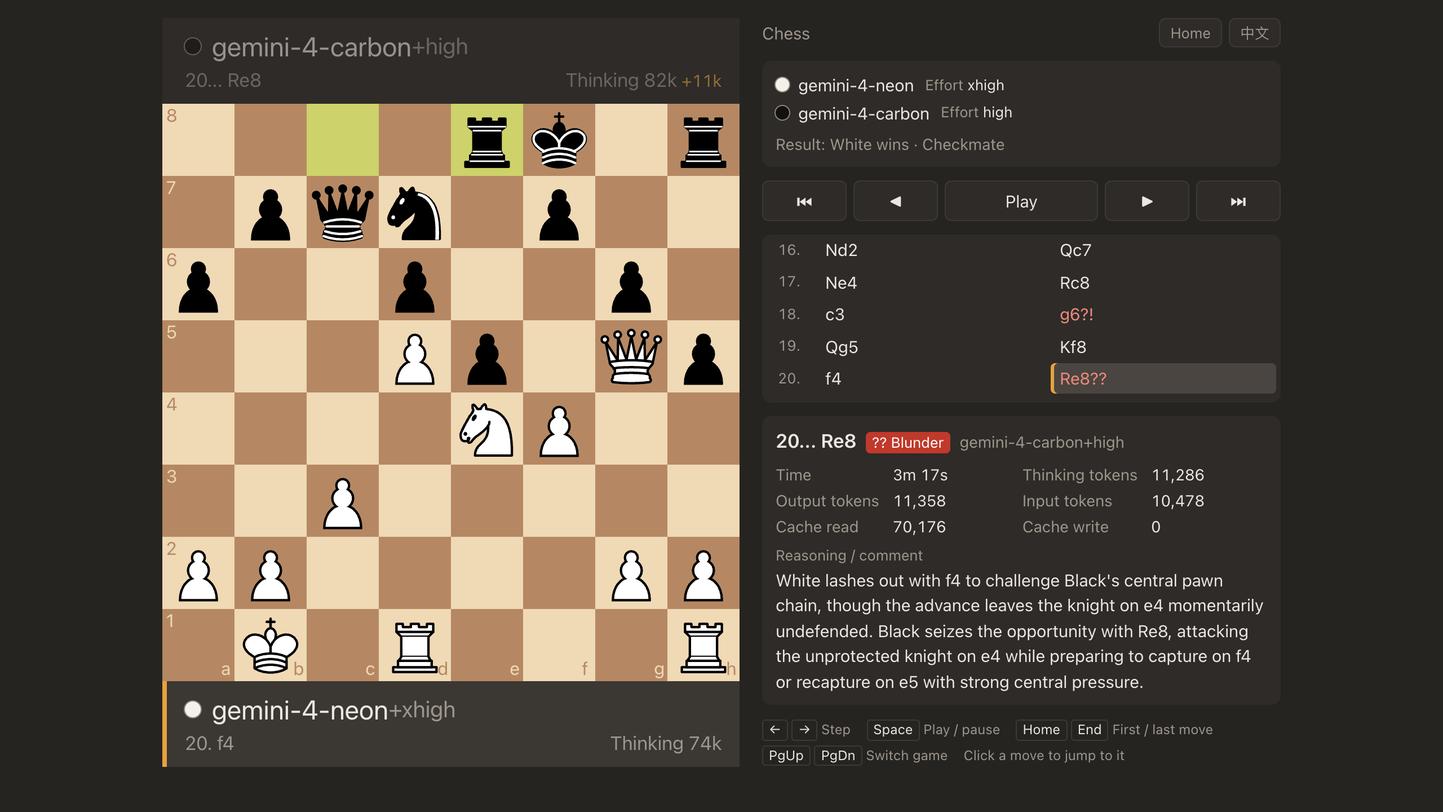
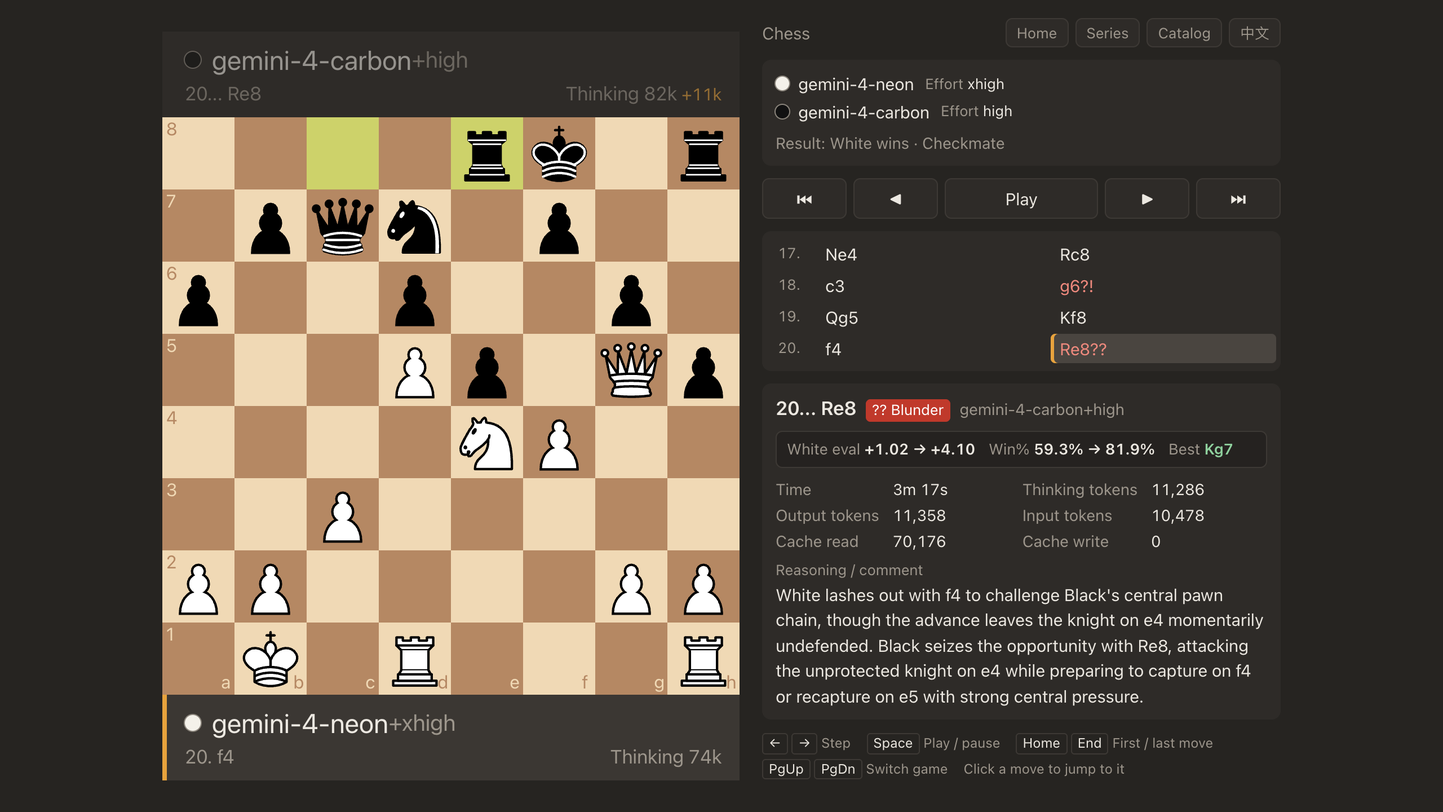
docs: add Series Board and Game Catalog links and fix Xiangqi anchor typo

diff --git a/docs/viewer.md b/docs/viewer.md
@@ -7,7 +7,7 @@
 > **状态（2026-10-02）：走子音效已做、用户试听后合回 main：录视频默认有声、网页默认静音，见「走子音效」。**
 > **不做成对外 app（2026-10-02 用户定，不立项）**：调研见 `viewer-survey/README.md` 末节。
 > **状态（2026-10-03）：加了英文界面（`lang=en`）和棋手显示名覆盖（`names=`），用于英文讲解与视频展示，见「英文界面」。默认仍是中文、画面不变。**
-> **状态（2026-11-22）：补齐 GitHub Pages 在线静态部署（`viewer/build-pages.mjs` + GitHub Actions Playwright CI/CD）、`SITE_ROOT` 子路径双通、手机端可滚动纵向堆叠版式 `.mobile`（`<900px` 保留着法与评注，不影响 `rec=1` / `layout=compact` 录屏窄版）、手动翻步防抖 `replaceState` 更新 `ply` 深链接、顶栏/首页中英切换及 `agy:` 前缀剥离。**
+> **状态（2026-11-22）：补齐 GitHub Pages 在线静态部署（`viewer/build-pages.mjs` + GitHub Actions Playwright CI/CD）与三页同级静态架构（精选阅读器 `index.html`、无引擎对阵总览榜 `series.html`、全部 192 盘可筛选目录 `catalog.html`，共享 `lib/nav.js` 上下文导航，全站固定暗色主题）；新增 `viewer/catalog-meta.json` + 零依赖 `viewer/build-catalog.mjs`（严格只扫 `git ls-files runs/`）生成入库受检的 `viewer/lib/catalog-data.json`；支持 `SITE_ROOT` 子路径双通、先手固定视角的逐着引擎评分/胜率变化与最佳着展示、`CHANNEL_WARN_RE` 通道重试告警分段弱化渲染、`match.js` `fullName()` 首词忽略大小写厂商前缀去重、手机端 `.mobile` 版式（翻步栏紧贴棋盘正下方 + 8 行整行对齐 `284px` 着法滚动框，不影响 `rec=1` / `layout=compact` 录屏窄版）、手动翻步防抖 `replaceState` 更新 `ply` 深链接及 `agy:` 前缀剥离。**
 
 ## 一句话
 
@@ -28,19 +28,21 @@
 **输入是棋谱文件。**
 - 国际象棋：标准 PGN，一个文件里可以有多盘。
 - 中国象棋：xqbase「中国象棋电脑应用规范」的 PGN（原文 `www.xqbase.com/protocol/cchess_pgn.htm`、`cchess_move.htm`）。要点：`[Game "Chinese Chess"]` 放第一个标签；双方标签是 `Red` / `Black`；`Format` 不写默认是中文记谱；黑方数字用全角「１２３」，同线第几个兵的「一二三」仍用汉字（如「一卒平５」）；同一纵线上有多个同种子时用前 / 中 / 后或一二三四五区分，两条纵线都有多个兵另有编号规则；仕、相同线不写前后，靠进退区分。逐条规则第 1 步已对照原文定下，写在 `agi_chess/xiangqi.py` 的 `pgn_move` 注释里：一线两兵前 / 后、三兵前 / 中 / 后、四五兵从前往后一至五；两条纵线各有两个以上兵时，这两条线上的兵一起编一至五，先按走棋方的纵线号从小到大（右边先）、同线从前往后，其余纵线的兵照常写（原文说明里「即先看最左边一列」与「先从右到左」和例局矛盾，以例局为准）。评注后的黑方着法照原文例子直接接着写，不补「N...」。读别人的棋谱时容错半角数字、繁体字（俥傌砲後進）、GBK 编码（解码失败回退 `gb18030`）。
-- 评注里的 `[%emt]` 显示成用时；自定义的 `[%think] [%out] [%in] [%cacheread] [%cachewrite] [%illegal] [%flagged] [%empty] [%dropped]` 显示成带中文标签的数字；不认识的命令原样列出，后面的文字当理由显示。着法后的 `?` `??` `!` 等标注照常显示。
+- 评注里的 `[%emt]` 显示成用时；自定义的 `[%think] [%out] [%in] [%cacheread] [%cachewrite] [%illegal] [%flagged] [%empty] [%dropped]` 显示成带中文标签的数字；不认识的命令原样列出，后面的文字当理由显示。对含通道内联重试 `⚠` 告警的历史评注（由 `CHANNEL_WARN_RE` 匹配提取），面板将告警原文与模型理由正文分段并弱化渲染。着法后的 `?` `??` `!` 等标注照常显示；当伴随加载了同目录 `analysis.jsonl` 时，除叠加恶手/失误/不精确徽章外，还将分析记录里的走子方视角评分与胜率统一翻转为**先手（国际象棋白方 / 中国象棋红方）固定视角**展示变化，并将走前局面下的引擎最佳着坐标转为可读记谱（国际象棋用临时 `Chess` 实例转标准 SAN，中国象棋按当前界面语言调 `zhMove` 转中文四字记谱或调 `wxfMove` 转英文 WXF 记谱）。
 - 标签里的 `WhiteEffort` / `BlackEffort`（中国象棋 `RedEffort` / `BlackEffort`，本项目自定义，见下文导出）显示为思考深度；别人的棋谱没有就不显示。
 
-**打开方式与静态打包。** 页面是纯前端静态 ES 模块（第三方库放 `viewer/vendor/`，附来源和许可文本），不能用 `file://` 直接打开，同时支持**本机静态服务**与 **GitHub Pages 在线直开**两种部署形态：
-- **本机静态服务**：在仓库根目录运行 `node viewer/serve.mjs`（默认监听 `127.0.0.1:8765`，或 `python3 -m http.server 8765 --bind 127.0.0.1`），打开 `http://127.0.0.1:8765/viewer/`，页面无需构建或 `npm ci`。
-- **GitHub Pages 在线部署**（`https://xiaohuaxi.github.io/agi-chess/`）：由 `viewer/build-pages.mjs` 生成静态站点目录（将 `viewer/` 运行时静态文件 `index.html`、`app.js`、`app.css`、`lib/`、`vendor/` 与 `.nojekyll` 拷入站点根，并递归纳入 `runs/` 下全部正式对局的 `game.pgn` 与 `analysis.jsonl`；排除 `node_modules/`、`test/`、`serve.mjs`、`record.mjs`、`shot.mjs` 等开发/录制文件），经 GitHub Actions 跑完 Playwright 浏览器回归后自动部署。
-- **`SITE_ROOT` 子路径双通**：前端由 `new URL('.', import.meta.url)` 自动推导 `SITE_ROOT`——当页面跑在本机 `/viewer/` 子目录下时退回上一级仓库根，当跑在 GitHub Pages（如 `/agi-chess/` 站点根）时直接使用该部署根；`files=` 中的相对路径 `runs/<tag>` 与带前导斜杠的 `/runs/<tag>` 均按 `SITE_ROOT` 统一解析（支持目录简写自动补 `/game.pgn`，并自动尝试伴随加载同目录 `analysis.jsonl` 校验走子坐标与走前局面后叠加恶手/失误/不精确标注）。空白首页内置近期 Neon / Carbon / Astra 6.2 与经典 Opus Max 代表局入口、中英切换及本地 `.pgn` 拖放解析（拖入文件仅在浏览器本地读取，不上传）。
+**打开方式、三页架构与静态索引管线。** 页面是纯前端静态 ES 模块（第三方库放 `viewer/vendor/`，附来源和许可文本），全站固定采用暗色护眼主题，不能用 `file://` 直接打开，同时支持**本机静态服务**与 **GitHub Pages 在线直开**两种部署形态：
+- **三页同级静态架构与共享导航（`lib/nav.js`）**：站点由同级的精选阅读器 `index.html`、分棋种无引擎对阵总览榜 `series.html`（支持 `?variant=xiangqi` 分栏，按棋种与可比实验条件展示无引擎番棋总览、循环赛摘要、引擎标定锚点与名场面直达）及全部 192 盘可筛选目录 `catalog.html`（支持 `?batch=<id>` 及棋种/类别/模型胶囊/关键词组合筛选）组成。三页共用 `viewer/lib/nav.js` 维护顶栏导航与中英切换参数，并结合 `sessionStorage` 与 `history.state` 保存来源页 URL 与筛选状态，使从总览榜或目录页点进阅读器看谱后可一键原位返回。
+- **静态目录索引构建管线（`build-catalog.mjs`）**：由维护批次与系列元数据的 `viewer/catalog-meta.json` 配合零第三方依赖脚本 `viewer/build-catalog.mjs`（严格只扫描 `git ls-files runs/` 输出的已跟踪文件，绝不混入本机未入库的新跑目录或临时文件），离线汇总生成入库受检的 `viewer/lib/catalog-data.json`（测试套件同步校验其与仓库已入库 `runs/` 完全一致）。
+- **本机静态服务**：在仓库根目录运行 `node viewer/serve.mjs`（默认监听 `127.0.0.1:8765`，或 `python3 -m http.server 8765 --bind 127.0.0.1`），打开 `http://127.0.0.1:8765/viewer/`（以及同目录 `series.html`、`catalog.html`），页面无需构建或 `npm ci`。
+- **GitHub Pages 在线部署**（`https://xiaohuaxi.github.io/agi-chess/`）：由 `viewer/build-pages.mjs` 生成静态站点目录（将 `viewer/` 运行时静态文件 `index.html`、`series.html`、`catalog.html`、各自 JS/CSS、`lib/` 含 `catalog-data.json`、`vendor/` 与 `.nojekyll` 拷入站点根，并递归纳入 `runs/` 下全部正式对局的 `game.pgn` 与 `analysis.jsonl`；排除 `node_modules/`、`test/`、`serve.mjs`、`record.mjs`、`shot.mjs`、`build-*.mjs` 等开发/构建脚本），经 GitHub Actions 跑完 Playwright 浏览器回归后自动部署。
+- **`VIEWER_DIR` 与 `SITE_ROOT` 两级路径分离**：共享模块 `viewer/lib/nav.js` 由 `new URL('..', import.meta.url)` 定位页面目录 `VIEWER_DIR`（本机 `/viewer/`，线上 `/agi-chess/`），再据此推导数据根 `SITE_ROOT`——当 `VIEWER_DIR` 跑在本机 `/viewer/` 子目录下时退回上一级仓库根，当跑在 GitHub Pages（如 `/agi-chess/` 站点根）时直接复用 `VIEWER_DIR`；`files=` 中的相对路径 `runs/<tag>` 与带前导斜杠的 `/runs/<tag>` 均按 `SITE_ROOT` 统一解析（支持目录简写自动补 `/game.pgn`，并自动尝试伴随加载同目录 `analysis.jsonl` 校验走子坐标与走前局面后叠加引擎评分、最佳着与恶手标注）。空白首页内置近期 Neon / Carbon / Astra 6.2 与经典 Opus Max 代表局入口、中英切换及本地 `.pgn` 拖放解析（拖入文件仅在浏览器本地读取，不上传）。
 
 **版式（三态分工）。**
 - **宽版 `.wide`**（窗口宽 `>= 900px` 或强制 `layout=wide`，且非 `rec=1`）：左边棋盘，右边着法列表和当前这步的评注、理由、用时、token、非法重选次数。能暂停、前后单步、点着法跳到任意一步，有键盘快捷键，顶栏支持中英切换。
   - 已做（2026-09-30）：左边照搬窄版的棋手条 + 棋盘 + 棋手条（字号配色不变），棋盘边长随窗口高度（`100vh` 减上下留白、两条棋手条、顶部细条）；右边一栏从上到下是棋种（多盘时一个下拉框换盘）、双方全称与「思考深度」、结果，播放按钮（首 / 上一步 / 播放暂停 / 下一步 / 尾），着法列表（每回合一行，当前这步高亮，`?` `??` `?!` 标红、`!` `!!` `!?` 标绿），这步的详情（记谱、标注及其中文说法、将军、谁走的；用时、思考 / 输出 / 输入 token、缓存读写、非法重选、被拦截、空回复，各带中文标签，非零的异常次数用强调色；理由文字；不认识的命令原样列出），最底下一行快捷键提示。配色沿用窄版的变量，宽版自己的取值在 `app.css` 末尾「宽版」一节。
   - 快捷键与深链接同步：← → 单步（本盘到底再按 → 进下一盘，开头按 ← 回上一盘最后一步），空格 播放 / 暂停，Home / End 本盘首尾，PgUp / PgDn 上一盘 / 下一盘；点着法跳到那步。手动跳步先停下自动播放，再按播放从跳到的那一格往下播；在非 `rec=1`、非自动播放状态下，手动翻步或跳步会经防抖调用 `history.replaceState` 同步更新地址栏 `ply`（及多盘时的 `game`），方便直接复制当前 URL 分享指定半回合局面而不污染浏览器后退栈。跳到最后一步时直接带终局横幅。
-- **移动堆叠版 `.mobile`**（窗口宽 `< 900px` 且未传 `rec=1`、未强制 `layout=compact`/`wide`）：面向手机与窄窗读谱的可纵向滚动上下堆叠版式——上方为棋手条 + 棋盘 + 棋手条与播放控制，下方完整保留着法列表与当步评注详情（不再像早期实现那样在 `<900px` 直接隐藏右栏）。
+- **移动堆叠版 `.mobile`**（窗口宽 `< 900px` 且未传 `rec=1`、未强制 `layout=compact`/`wide`）：面向手机与窄窗读谱的可纵向滚动上下堆叠版式——上方为棋手条 + 棋盘 + 棋手条，**翻步控制栏紧贴棋盘正下方**，其下依次为当步棋评详情与 **8 行整行对齐（`284px` `border-box`）的着法滚动框**（既不像早期实现那样在 `<900px` 隐藏右栏，也不把百余回合列表全展开撑长页面）。
 - **录屏窄版 `.compact`**（`rec=1` 或显式传 `layout=compact`）：固定 `540×720` 设计结构，右侧信息栏整块不渲染，只剩页头、棋盘、页脚（棋手条），专供脚本逐帧录屏与无评注紧凑展示；细节见下文「录屏画面」。
 - 默认切换规则：`rec=1` 恒为 `.compact`（录 16:9 时视口宽 960，录制不靠窗口宽度自动判断）；否则显式 `layout=compact` / `layout=wide` 优先；未指定 `layout` 时按窗口宽度响应式切换（`>= 900px` 为 `.wide`，`< 900px` 为 `.mobile`）。
 - 三种版式都有：上一步高亮、被将军提示、终局结果和结束原因、可选的标题画面（默认不加，参数 `title=1` 开）。两种棋各照自己的主流软件画（见「棋盘」），不求统一。
@@ -194,7 +196,7 @@
   - **第五轮（2026-09-30）象棋的竖向分配**：规则两种棋一致（用户定）：**棋盘区高度固定，连播与否不变；连播多出的顶部细条从两条棋手条扣**（国际象棋 544，棋手条单盘 88 / 连播 76）。象棋取值（用户 2026-09-30 定稿）：棋盘区 572（`app.css` 的 `--xq-board-h`，页面在 `#stage` 上挂 `xq` 类时生效），棋手条连播 62（压到不局促的最矮）、单盘 74；字号不变，只压行高（30 / 24、两行间距 1，`--xq-row1-lh` 等，只作用于象棋的棋手条）。加总：单盘 74 + 572 + 74 = 720，连播 24 + 62 + 572 + 62 = 720。连播时字的墨迹离条上沿约 8、下沿 6–7.5，两行之间 5–8.5（带「将军」标签那条最紧）。棋盘不追满宽，压到不局促为止，左右留白可以接受（用户确认）。象棋棋盘宽：第三轮 445 → 第四轮 475 → 第五轮 482（两边各 29）。
 - **字号**：视频在手机上按屏宽显示，页面 1 像素约等于手机上 0.72 个点：名字 24 → 约 17 点，比分 28 → 约 20 点，第二行 16–18 → 约 12–13 点，都不用很大就看得清。
 - **底部有东西不怕被挡**：历史本机测试中，3:4 在小红书上按屏宽完整显示、上下是黑边，作者名、标题等浮层落在黑边里，不压画面（当时9:16会压住底部约12%；平台版本可能影响效果，见[历史录屏经验](viewer-survey/post-studio-recording.md)）。
-- **大小写与前缀剥离**：模型简称和思考深度一律小写（`opus+xhigh`，用户已同意）。简称剥离后端与路由前缀——如 `claude:opus` → `opus`，`agy:claude-opus-5-5`、`agy:gemini-4-neon` 等带 `agy:` 前缀的棋手名同样剥去 `agy:` 提取真实模型名（不把 `agy` 当厂商，也不额外补固定厂商前缀）；不是模型的棋手（引擎、人）照原名显示。观众可能不知道 astra 是哪家，放标题画面交代（如「Claude opus 对 GPT astra」）。
+- **大小写与前缀剥离**：模型简称和思考深度一律小写（`opus+xhigh`，用户已同意）。简称剥离后端与路由前缀——如 `claude:opus` → `opus`，`agy:claude-opus-5-5`、`agy:gemini-4-neon` 等带 `agy:` 前缀的棋手名同样剥去 `agy:` 提取真实模型名（不把 `agy` 当厂商，也不额外补固定厂商前缀）；不是模型的棋手（引擎、人）照原名显示。观众可能不知道 astra 是哪家，在标题画面与右栏全称 `lib/match.js` 的 `fullName()` 中补厂商前缀（如「Claude opus 对 GPT astra」），并对首词做忽略大小写去重——当模型标识本身已以厂商名开头时（如 `gpt-6.2-astra`、`claude-opus-5-5`、`gemini-4-neon`），不再重复拼出 `GPT gpt-6.2-astra`，保留紧凑的技术标识体系。
 - **标题画面**（可选）：第几局（多盘时）、双方全称与思考深度，停 `titlehold` 秒（默认 3），做法见「播放」。赛制棋谱里没有，先不写。
 - 颜色、间距、字重这类审美值做出来以后截图给用户看，满意再提交，不靠文字定。
 - **实施时逐项确认细节**（用户要求）：每种文字的字号、字重、行高，每行实际占多高，各块的内外边距，加起来是否正好等于 720；最长的名字（如 `deepseek-v4-pro+xhigh`）、最长的记谱、五位数的 token 放进去会不会挤；在打样截图上逐项量一遍，写进页面样式的注释里。

diff --git a/README.md b/README.md
@@ -6,9 +6,9 @@
 
 This project puts untuned general-purpose models at the board like human players, with no engines, legal-move lists, or tactical hints, to measure their real strength in International Chess and Xiangqi, diagnose why they blunder, and test how reasoning effort, board representation, and thought carryover affect their play. The repository includes the match and quiz runner, 192 official model games, 9 judged quiz batches, rating calibration scripts, research reports, and an interactive game viewer.
 
-> **Interactive Game Viewer (GitHub Pages): [Open Live in Your Browser (`xiaohuaxi.github.io/agi-chess`)](https://xiaohuaxi.github.io/agi-chess/?lang=en)**
+> **Interactive Game Viewer (GitHub Pages):** **[Featured Viewer](https://xiaohuaxi.github.io/agi-chess/?lang=en)** · **[No-Engine Series Board](https://xiaohuaxi.github.io/agi-chess/series.html?lang=en)** · **[All 192 Games Catalog](https://xiaohuaxi.github.io/agi-chess/catalog.html?lang=en)**
 >
-> Zero install, no API keys, and no local server needed: open the **[Live Web Viewer](https://xiaohuaxi.github.io/agi-chess/?lang=en)** on desktop or mobile to step through built-in featured games (from recent Gemini 4 Neon, Carbon, and GPT-6.2 Astra clashes to classic Claude Opus Max matches), inspect per-move model rationales alongside Stockfish / Fairy-Stockfish blunder badges, or open **any of the 192 official games** directly via `?files=runs/<tag>&lang=en` (or drag in your own `.pgn` files). For offline browsing, local newly played runs, or MP4 video recording, run `node viewer/serve.mjs` locally (see below and the [Viewer & Video Guide](docs/viewer-guide.en.md)).
+> Zero install, no API keys, and no local server needed: open the **[Live Web Viewer](https://xiaohuaxi.github.io/agi-chess/?lang=en)** on desktop or mobile to step through built-in featured games (from recent Gemini 4 Neon, Carbon, and GPT-6.2 Astra clashes to classic Claude Opus Max matches), browse head-to-head series summaries and engine calibration anchors on the **[No-Engine Series Board](https://xiaohuaxi.github.io/agi-chess/series.html?lang=en)**, or filter and open **any of the 192 official games** in the **[All 192 Games Catalog](https://xiaohuaxi.github.io/agi-chess/catalog.html?lang=en)** (or via `?files=runs/<tag>&lang=en`, or by dragging in your own `.pgn` files) to inspect per-move model rationales alongside Stockfish / Fairy-Stockfish evaluations, best moves, and blunder badges. For offline browsing, local newly played runs, or MP4 video recording, run `node viewer/serve.mjs` locally (see below and the [Viewer & Video Guide](docs/viewer-guide.en.md)).
 
 [![Live Interactive Viewer: Gemini 4 Neon xhigh vs. Carbon high, Game 1 at ply 40 (20...Re8??)](docs/assets/viewer-hero.png)](https://xiaohuaxi.github.io/agi-chess/?files=runs/neon-xhigh-vs-carbon-high-20261119&ply=40&lang=en)
 
@@ -34,11 +34,11 @@ Step 1 runs directly in your browser without cloning the repository; all CLI com
 1. **Open Featured Official Games & Blunder Reviews Online (No Clone Needed)**:
 
    Click any live link below (passing a run directory automatically overlays engine blunder badges from its companion `analysis.jsonl`):
-   - [Live Viewer Home (with built-in featured games & Chinese/English toggle)](https://xiaohuaxi.github.io/agi-chess/?lang=en)
+   - **[Live Viewer Home (featured games & Chinese/English toggle)](https://xiaohuaxi.github.io/agi-chess/?lang=en)** · **[No-Engine Series Board (`series.html`)](https://xiaohuaxi.github.io/agi-chess/series.html?lang=en)** · **[All 192 Games Catalog (`catalog.html`)](https://xiaohuaxi.github.io/agi-chess/catalog.html?lang=en)**
    - [Chess: Gemini 4 Neon `xhigh` vs. Carbon `high` (Game 1, `36.Qd8#`, Neon 10.7 ACPL / 0 blunders)](https://xiaohuaxi.github.io/agi-chess/?files=runs/neon-xhigh-vs-carbon-high-20261119&lang=en)
    - [Chess: GPT-6.2 Astra `max` vs. Gemini 4 Neon `xhigh` (Game 4, `59.Qhd5#`, Astra 11.7 ACPL / 0 blunders)](https://xiaohuaxi.github.io/agi-chess/?files=runs/neon-xhigh-vs-astra-max-20261119-4&lang=en)
    - [Chess: Gemini 4 Carbon `high` vs. Opus 5.5 `high` (Game 1, `69.Qg7#`, Carbon 7.0 ACPL / 0 blunders)](https://xiaohuaxi.github.io/agi-chess/?files=runs/carbon-vs-agy-opus-high-20261114&lang=en)
-   - [Xiangqi: Opus 5.5 `high` vs. Gemini 4 Carbon `high` (Game 3, `5.R9=8??` screened-Cannon blunder, Carbon 16.0 ACPL / 0 blunders)](https://xiaohuaxi.github.io/agi-chess/?files=runs/carbon-vs-agy-opus-high-xq-20261114-3&lang=en)
+   - [Xiangqi: Opus 5.5 `high` vs. Gemini 4 Carbon `high` (Game 3, `5.R9.8??` screened-Cannon blunder, Carbon 16.0 ACPL / 0 blunders)](https://xiaohuaxi.github.io/agi-chess/?files=runs/carbon-vs-agy-opus-high-xq-20261114-3&lang=en)
    - [Chess Peak Match (Opus Max vs. GPT-6 Astra Max, Game 1)](https://xiaohuaxi.github.io/agi-chess/?files=runs/g7-c-opus-astra-1&lang=en)
    - [Xiangqi Peak Match (Opus Max vs. GPT-6 Astra Max, Game 1)](https://xiaohuaxi.github.io/agi-chess/?files=runs/g7-x-opus-astra-1&lang=en)
    - [Chess: Argon High vs. Opus High (Game 1)](https://xiaohuaxi.github.io/agi-chess/?files=runs/argon-vs-agy-opus-high-20261019&lang=en)
@@ -103,7 +103,7 @@ Python 3.13 is recommended. If you have several Python versions installed, use `
 
 **Summary of Core Quantitative Findings** (see [Research Index](docs/research.en.md) and [Experiment History (zh-CN)](docs/history.md) for full details):
 
-- **Calibrated Playing Strength (Opus Max across 67 Engine Calibration Games):** In International Chess (30 games), under engine adjudication at the 200-ply cap (≥300 cp lead wins), Opus Max fits at **+189 scale points above Maia-1900** (95% CI: 66–313), corresponding to **~1800 Lichess Blitz / ~1920 Lichess Rapid** (or +281 / ~1910 Blitz / ~2020 Rapid under the original cap-is-draw rule); in Xiangqi (37 games), it fits at **+121 Elo above Fairy-Stockfish `nodes=100`** (95% CI: +1 to +236), comparable to or slightly above `nodes=300` (+82) and clearly below `nodes=1000` (+385).
+- **Calibrated Playing Strength (Opus Max across 67 Engine Calibration Games):** In International Chess (30 games), under engine adjudication at the 200-ply cap (≥300 cp lead wins), Opus Max fits at **+189 scale points above Maia-1900** (95% CI: 66–313), corresponding to **~1800 Lichess Blitz / ~1920 Lichess Rapid** (or +281 / ~1910 Blitz / ~2020 Rapid under the original cap-is-draw rule); in Xiangqi (37 games), it fits at **+121 Elo above Fairy-Stockfish `nodes=100`** (95% CI: +1 to +236), comparable to or slightly above `nodes=300` (+82) and clearly below `nodes=1000` (+298).
 - **Move Legality & Capture Rules Are Not the Primary Bottleneck:** Under the real-player protocol, models rarely output illegal moves. In targeted diagnostics across 14 full-game missed-capture/hanging-piece positions, models listed every legal capture **26/26 times** when asked in isolation, yet failed to mention the critical capture in 13/14 full-game rationales, pointing to **selective attention during search and shallow lookahead** rather than board-reading or rule ignorance.
 - **Board Representation & 1-Ply Blind Spots (Especially in Xiangqi):** More input is not always better: in Xiangqi, giving **only the piece list (`pieces`)** yielded the lowest blunder rate (21% vs. 34% for `FEN + ASCII board + piece list`, where the ASCII grid caused models to confuse Black's `車` with Red's). Models in Xiangqi repeatedly exhibited 1-ply self-hangs (such as walking a Rook into a screened Cannon capture, `炮隔炮打车`) and left hanging major pieces uncaptured for multiple consecutive plies.
 - **Reasoning Depth Dominates, While Thought Carryover Cuts Both Ways:** Scaling `effort` (`medium → high → xhigh → max`) is the single most effective lever for reducing blunders (e.g., in the September `max` vs. `max` peak match against GPT-6 Astra, Opus won 3:1 in Chess and 4:0 in Xiangqi). Continuous sessions (`session`) genuinely reuse prior thinking and cut per-move thinking tokens, but retaining prior thinking can also lock in early blind spots (dropping prior thinking via `drop_thinking` reduced missed captures for Opus at 2–3× the per-move token and time cost).

diff --git a/docs/viewer-guide.en.md b/docs/viewer-guide.en.md
@@ -8,15 +8,18 @@ The viewer defaults to Chinese; switch languages directly from the top bar or ho
 
 ## Browse Online Zero-Install (GitHub Pages)
 
-If you want to inspect the 192 official model games checked into `runs/` (or drag in your own local `.pgn` files), open the hosted GitHub Pages viewer directly on desktop or mobile without cloning the repository or starting a local server (passing a run directory automatically overlays engine blunder annotations from its companion `analysis.jsonl`):
+If you want to inspect the 192 official model games checked into `runs/` (or drag in your own local `.pgn` files), open the hosted GitHub Pages site directly on desktop or mobile without cloning the repository or starting a local server (all three pages share top-bar navigation, and passing a run directory automatically overlays per-move engine evaluations, best moves, and blunder annotations from its companion `analysis.jsonl`):
 
-- [Live Viewer Home (with built-in featured games & Chinese/English toggle)](https://xiaohuaxi.github.io/agi-chess/?lang=en) ([中文界面](https://xiaohuaxi.github.io/agi-chess/))
-- [Chess: Gemini 4 Neon `xhigh` vs. Carbon `high` (Game 1, ply 40 `20...Re8??` blunder)](https://xiaohuaxi.github.io/agi-chess/?files=runs/neon-xhigh-vs-carbon-high-20261119&ply=40&lang=en)
-- [Chess: GPT-6.2 Astra `max` vs. Gemini 4 Neon `xhigh` (Game 4, `59.Qhd5#`, Astra 11.7 ACPL / 0 blunders)](https://xiaohuaxi.github.io/agi-chess/?files=runs/neon-xhigh-vs-astra-max-20261119-4&lang=en)
-- [Xiangqi: Opus 5.5 `high` vs. Gemini 4 Carbon `high` (Game 3, ply 9 `5.R9=8??` screened-Cannon blunder)](https://xiaohuaxi.github.io/agi-chess/?files=runs/carbon-vs-agy-opus-high-xq-20261114-3&ply=9&lang=en)
-- [Chess Peak Match (Opus Max vs. Astra Max, Game 1)](https://xiaohuaxi.github.io/agi-chess/?files=runs/g7-c-opus-astra-1&lang=en)
-- [Xiangqi Peak Match (Opus Max vs. Astra Max, Game 1)](https://xiaohuaxi.github.io/agi-chess/?files=runs/g7-x-opus-astra-1&lang=en)
-- [Chess Rating Calibration Match (Opus Max vs. Maia-1900)](https://xiaohuaxi.github.io/agi-chess/?files=runs/zc/maia-1900-s1-w&lang=en)
+- **[Featured Viewer Home](https://xiaohuaxi.github.io/agi-chess/?lang=en)** ([中文界面](https://xiaohuaxi.github.io/agi-chess/)): built-in featured games, local `.pgn` drag-and-drop, and instant Chinese/English switching.
+- **[No-Engine Series Board (`series.html`)](https://xiaohuaxi.github.io/agi-chess/series.html?lang=en)** ([Xiangqi tab `?variant=xiangqi&lang=en`](https://xiaohuaxi.github.io/agi-chess/series.html?variant=xiangqi&lang=en)): variant-separated head-to-head model series summaries, three-model round-robin tables, engine calibration anchors, and direct links to signature tactical moments.
+- **[All 192 Games Catalog (`catalog.html`)](https://xiaohuaxi.github.io/agi-chess/catalog.html?lang=en)** ([Batch filter example `?batch=zc&lang=en`](https://xiaohuaxi.github.io/agi-chess/catalog.html?batch=zc&lang=en)): filterable index of all 192 official games by variant, matchup category (model-vs-model / vs engine or random), model pills, and keywords; opening a game from the Series Board or Catalog preserves your browse state for one-click return in the top bar.
+- Featured games and signature blunder positions:
+  - [Chess: Gemini 4 Neon `xhigh` vs. Carbon `high` (Game 1, ply 40 `20...Re8??` blunder)](https://xiaohuaxi.github.io/agi-chess/?files=runs/neon-xhigh-vs-carbon-high-20261119&ply=40&lang=en)
+  - [Chess: GPT-6.2 Astra `max` vs. Gemini 4 Neon `xhigh` (Game 4, `59.Qhd5#`, Astra 11.7 ACPL / 0 blunders)](https://xiaohuaxi.github.io/agi-chess/?files=runs/neon-xhigh-vs-astra-max-20261119-4&lang=en)
+  - [Xiangqi: Opus 5.5 `high` vs. Gemini 4 Carbon `high` (Game 3, ply 9 `5.R9.8??` screened-Cannon blunder)](https://xiaohuaxi.github.io/agi-chess/?files=runs/carbon-vs-agy-opus-high-xq-20261114-3&ply=9&lang=en)
+  - [Chess Peak Match (Opus Max vs. Astra Max, Game 1)](https://xiaohuaxi.github.io/agi-chess/?files=runs/g7-c-opus-astra-1&lang=en)
+  - [Xiangqi Peak Match (Opus Max vs. Astra Max, Game 1)](https://xiaohuaxi.github.io/agi-chess/?files=runs/g7-x-opus-astra-1&lang=en)
+  - [Chess Rating Calibration Match (Opus Max vs. Maia-1900)](https://xiaohuaxi.github.io/agi-chess/?files=runs/zc/maia-1900-s1-w&lang=en)
 
 The repository's `runs/` directory contains `game.pgn` for all 86 official model match directories (192 games in total): **79 single-game directories** (64 model-vs-model + 15 single-game model-vs-engine `b1-ch-*`/`b1-xq-*`) can be passed directly as `runs/<tag>`, and **7 multi-game batch directories** (`b1`, `b1-session`, `b2`, `b3max-ch`, `b3max-xq`, `zc`, `zx`, 113 games in total) place each game in a second-level subdirectory `runs/<batch>/<game>` (e.g. `runs/zc/maia-1900-s1-w`). Replace `files=` in the online URL with any of those paths to inspect that game, its move-by-move rationales, and its engine blunder badges.
 
@@ -49,7 +52,8 @@ Open the [Live Viewer](https://xiaohuaxi.github.io/agi-chess/?lang=en) or <http:
 | Start / End of current game | `Home` / `End` |
 | Previous / Next game | `PgUp` / `PgDn` |
 
-- **Desktop Two-Column & Mobile Stacked Layouts:** In wide windows (at least 900 px wide), the right panel displays the move list, move rationales/comments, engine blunder badges, elapsed time, and token counts recorded in the PGN (click any move to jump directly to that ply). On phones or narrow browser windows (`< 900 px` in normal browsing), the viewer switches to a vertically scrollable stacked layout with the board and controls on top and the full move list and rationales below; only recording mode (`rec=1`) or explicit `layout=compact` hides the side panel to show just the board and player banners.
+- **Desktop Two-Column & Mobile Stacked Layouts:** All pages use a fixed dark eye-comfort theme. In wide windows (at least 900 px wide), the right panel displays the move list, move rationales/comments, engine evaluations, elapsed time, and token counts recorded in the PGN (click any move to jump directly to that ply). On phones or narrow browser windows (`< 900 px` in normal browsing), the viewer switches to a stacked layout with **the step-control bar tucked directly beneath the board**, followed by the current move's rationale and an **8-row line-aligned scrollable move box**; only recording mode (`rec=1`) or explicit `layout=compact` hides the info panel to show just the board and player banners.
+- **Per-Move Engine Score, Best Move & Channel-Retry Warning Rendering:** When a companion `analysis.jsonl` is loaded, the annotation panel displays **fixed first-player-perspective (White in Chess / Red in Xiangqi)** per-move engine eval/win-rate swings and the engine's best move alongside blunder/mistake/inaccuracy badges. Historical PGN comments containing inline channel-retry `⚠` notices split and dim the raw warning text into a separate block so it does not clutter the player's move rationale.
 - **Shareable Position Deep Links (`ply=`):** Manually stepping through moves or clicking a move automatically updates `ply=` (and `game=` in multi-game playlists) in the browser address bar, so copying the URL shares that exact position.
 - **Language Toggle:** Switch between Chinese and English directly from the top bar or home page, or pass `lang=en` / `lang=zh` in the URL. The viewer renders only the annotations and metadata embedded in the PGN (and companion `analysis.jsonl`), without running a live engine or fabricating missing metrics.
 

diff --git a/docs/viewer-guide.md b/docs/viewer-guide.md
@@ -8,15 +8,18 @@
 
 ## 免安装在线浏览（GitHub Pages）
 
-若只想查看仓库已入库的 192 盘正式模型对局（或拖入自己的本地 `.pgn` 棋谱），无需克隆仓库或启动本地服务，直接在桌面或手机浏览器打开在线阅读器即可（传入对局目录名会自动叠加同目录 `analysis.jsonl` 的恶手标注）：
+若只想查看仓库已入库的 192 盘正式模型对局（或拖入自己的本地 `.pgn` 棋谱），无需克隆仓库或启动本地服务，直接在桌面或手机浏览器打开在线棋谱站即可（三页顶栏互通，传入对局目录名会自动叠加同目录 `analysis.jsonl` 的逐着引擎评分、最佳着与恶手标注）：
 
-- [在线阅读器首页（内置代表局直达与中英切换）](https://xiaohuaxi.github.io/agi-chess/)（[English UI](https://xiaohuaxi.github.io/agi-chess/?lang=en)）
-- [国际象棋 · Gemini 4 Neon `xhigh` vs Carbon `high`（第 1 局，第 40 半回合 `20...Re8??` 现场）](https://xiaohuaxi.github.io/agi-chess/?files=runs/neon-xhigh-vs-carbon-high-20261119&ply=40)
-- [国际象棋 · GPT-6.2 Astra `max` vs Gemini 4 Neon `xhigh`（第 4 局，`59.Qhd5#`，Astra 11.7 ACPL 零大失误）](https://xiaohuaxi.github.io/agi-chess/?files=runs/neon-xhigh-vs-astra-max-20261119-4)
-- [中国象棋 · Opus 5.5 `high` vs Gemini 4 Carbon `high`（第 3 局，第 9 半回合 `5.车九平八??` 炮隔炮打车）](https://xiaohuaxi.github.io/agi-chess/?files=runs/carbon-vs-agy-opus-high-xq-20261114-3&ply=9)
-- [国际象棋巅峰对局（Opus Max vs Astra Max 第 1 局）](https://xiaohuaxi.github.io/agi-chess/?files=runs/g7-c-opus-astra-1)
-- [中国象棋巅峰对局（Opus Max vs Astra Max 第 1 局）](https://xiaohuaxi.github.io/agi-chess/?files=runs/g7-x-opus-astra-1)
-- [国际象棋等级分锚定局（Opus Max vs Maia-1900）](https://xiaohuaxi.github.io/agi-chess/?files=runs/zc/maia-1900-s1-w)
+- **[精选阅读器首页](https://xiaohuaxi.github.io/agi-chess/)**（[English UI](https://xiaohuaxi.github.io/agi-chess/?lang=en)）：内置代表局一键直达、本地 `.pgn` 拖放与中英切换。
+- **[无引擎对阵总览榜（`series.html`）](https://xiaohuaxi.github.io/agi-chess/series.html)**（[中国象棋分栏 `?variant=xiangqi`](https://xiaohuaxi.github.io/agi-chess/series.html?variant=xiangqi) · [English](https://xiaohuaxi.github.io/agi-chess/series.html?lang=en)）：按棋种与可比实验条件分列展示无引擎模型番棋总览、三模型循环赛摘要、引擎标定锚点及经典名场面直达入口。
+- **[全部 192 盘可筛选目录（`catalog.html`）](https://xiaohuaxi.github.io/agi-chess/catalog.html)**（[批次直达示例 `?batch=zc`](https://xiaohuaxi.github.io/agi-chess/catalog.html?batch=zc) · [English](https://xiaohuaxi.github.io/agi-chess/catalog.html?lang=en)）：收录全部 192 盘正式对局，支持按棋种、对阵类别（模型互弈 / 对引擎或随机走子）、模型胶囊与关键词组合筛选；从总览榜或目录页点进阅读器看谱后，顶栏可一键带筛选上下文返回原页面。
+- 代表局与关键失误现场直达：
+  - [国际象棋 · Gemini 4 Neon `xhigh` vs Carbon `high`（第 1 局，第 40 半回合 `20...Re8??` 现场）](https://xiaohuaxi.github.io/agi-chess/?files=runs/neon-xhigh-vs-carbon-high-20261119&ply=40)
+  - [国际象棋 · GPT-6.2 Astra `max` vs Gemini 4 Neon `xhigh`（第 4 局，`59.Qhd5#`，Astra 11.7 ACPL 零大失误）](https://xiaohuaxi.github.io/agi-chess/?files=runs/neon-xhigh-vs-astra-max-20261119-4)
+  - [中国象棋 · Opus 5.5 `high` vs Gemini 4 Carbon `high`（第 3 局，第 9 半回合 `5.车九平八??` 炮隔炮打车）](https://xiaohuaxi.github.io/agi-chess/?files=runs/carbon-vs-agy-opus-high-xq-20261114-3&ply=9)
+  - [国际象棋巅峰对局（Opus Max vs Astra Max 第 1 局）](https://xiaohuaxi.github.io/agi-chess/?files=runs/g7-c-opus-astra-1)
+  - [中国象棋巅峰对局（Opus Max vs Astra Max 第 1 局）](https://xiaohuaxi.github.io/agi-chess/?files=runs/g7-x-opus-astra-1)
+  - [国际象棋等级分锚定局（Opus Max vs Maia-1900）](https://xiaohuaxi.github.io/agi-chess/?files=runs/zc/maia-1900-s1-w)
 
 仓库 `runs/` 目录包含全部 86 个正式模型对局目录（共 192 盘）的 `game.pgn`：其中 **79 个单盘目录**（64 个模型互弈 + 15 个单盘模型对引擎 `b1-ch-*`/`b1-xq-*`）可直接写成 `runs/<tag>`，**7 个多盘批次目录**（`b1`、`b1-session`、`b2`、`b3max-ch`、`b3max-xq`、`zc`、`zx`，共 113 盘）位于二级子目录 `runs/<batch>/<game>`（如 `runs/zc/maia-1900-s1-w`）。将在线网址中的 `files=` 替换为任意目录路径即可直接查看该盘棋谱、模型思考理由与引擎恶手徽章。
 
@@ -49,7 +52,8 @@ node viewer/serve.mjs
 | 本盘开头 / 末尾 | Home / End |
 | 上一盘 / 下一盘 | PgUp / PgDn |
 
-- **桌面双栏与手机端纵向堆叠**：桌面宽窗口（至少 900 像素）采用左右双栏，右栏显示着法列表、评注理由、引擎恶手徽章及用时、token 等信息，也可点击任意着法跳步；手机端或窄于 900 像素的普通浏览窗口会自动切换为上下堆叠的可纵向滚动版式（上方棋盘与控制条，下方完整着法列表与评注详情），无需横屏也能读完理由（仅录制模式 `rec=1` 或显式传 `layout=compact` 时才隐藏信息栏、只保留棋盘与棋手条）。
+- **桌面双栏与手机端纵向堆叠**：全站固定采用暗色护眼主题。桌面宽窗口（至少 900 像素）采用左右双栏，右栏显示着法列表、当步评注理由、引擎分析、耗时与 token 等信息，也可点击任意着法跳步；手机端或窄于 900 像素的普通浏览窗口会自动切换为上下堆叠版式——**翻步栏紧贴棋盘正下方**，其下依次为当步棋评详情与 **8 行整行对齐滚动框**展示着法列表，无需横屏即可顺畅翻步读评（仅录制模式 `rec=1` 或显式传 `layout=compact` 时才隐藏信息栏、只保留棋盘与棋手条）。
+- **逐着引擎评分、最佳着与告警分段展示**：当伴随加载了同目录 `analysis.jsonl` 时，评注区除叠加恶手/失误/不精确徽章外，现已同步展示**先手（白方 / 红方）固定视角**的逐着引擎评分/胜率变化与走前引擎最佳着；对含通道重试 `⚠` 的历史评注，会将告警原文分段弱化显示，与模型棋评正文区分开。
 - **手动翻步自动同步地址栏 `ply`**：手动按方向键、点击着法或点按翻步按钮后，浏览器地址栏会自动更新当前 `ply=`（及多盘时的 `game=`），直接复制当前网址即可把指定半回合局面分享给他人。
 - **界面语言切换**：页面顶栏与空白首页提供中英切换入口，也可通过网址参数 `lang=en` / `lang=zh` 指定。阅读器只渲染记录中已有的理由与标注，不实时调用引擎，也不会凭空补齐棋谱未记录的指标。
 

diff --git a/README.zh-CN.md b/README.zh-CN.md
@@ -6,9 +6,9 @@
 
 本项目让未经棋类专训的通用大模型在不借引擎、不给合法着法提示的条件下，像真人一样下国际象棋与中国象棋，实测它们的真实棋力、拆解它们为何犯错，并检验思考深度、局面表示与思考延续方式对下法的影响。仓库收录了完整的对弈与局面题程序、192 盘正式对局棋谱、9 批局面题数据、等级分标定脚本、研究报告及配套棋谱阅读器。
 
-> **免安装在线棋谱阅读器（GitHub Pages）：[点此直接在浏览器打开（`xiaohuaxi.github.io/agi-chess`）](https://xiaohuaxi.github.io/agi-chess/)**
+> **免安装在线棋谱站（GitHub Pages）：[精选阅读器首页](https://xiaohuaxi.github.io/agi-chess/) · [无引擎对阵总览榜（Series Board）](https://xiaohuaxi.github.io/agi-chess/series.html) · [全部 192 盘可筛选目录（All 192 Games）](https://xiaohuaxi.github.io/agi-chess/catalog.html)**
 >
-> 无需克隆仓库、无需安装引擎或配置 API Key，桌面端与手机浏览器均可直接打开**[在线棋谱阅读器](https://xiaohuaxi.github.io/agi-chess/)**，逐步查看每步模型思考理由、引擎复盘恶手徽章、耗时与 token 统计。首页内置近期 Gemini 4 Neon / Carbon / GPT-6.2 Astra 与经典 Claude Opus Max 代表局一键入口，仓库收录的**全部 192 盘正式对局**均可通过 `?files=runs/<tag>` 直接在线打开（也可拖入本地 `.pgn` 棋谱）。离线环境、查看本机新跑对局或导出 MP4 视频时，运行 `node viewer/serve.mjs` 即可（见下方离线说明与[棋谱阅读器指南](docs/viewer-guide.md)）。
+> 无需克隆仓库、无需安装引擎或配置 API Key，桌面端与手机浏览器均可直接打开**[在线棋谱阅读器](https://xiaohuaxi.github.io/agi-chess/)**逐步查看每步模型思考理由、引擎逐着评分与最佳着、恶手徽章及耗时与 token 统计；也可进入**[无引擎对阵总览榜](https://xiaohuaxi.github.io/agi-chess/series.html)**按棋种查看无引擎模型番棋战绩、循环赛摘要、引擎标定锚点与名场面直达，或在**[全部 192 盘可筛选目录](https://xiaohuaxi.github.io/agi-chess/catalog.html)**按棋种、对阵类别、模型胶囊与关键词筛选任意正式对局（同样支持 `?files=runs/<tag>` 直达或拖入本地 `.pgn` 棋谱）。离线环境、查看本机新跑对局或导出 MP4 视频时，运行 `node viewer/serve.mjs` 即可（见下方离线说明与[棋谱阅读器指南](docs/viewer-guide.md)）。
 
 [![在线棋谱阅读器：Gemini 4 Neon xhigh 对 Carbon high 第 40 半回合 20...Re8??](docs/assets/viewer-hero.png)](https://xiaohuaxi.github.io/agi-chess/?files=runs/neon-xhigh-vs-carbon-high-20261119&ply=40)
 
@@ -34,7 +34,7 @@
 1. **直接点开在线代表局与引擎恶手复盘（无需 clone 仓库）**：
 
    点击任一在线链接即可看谱（传对局目录会自动叠加同目录 `analysis.jsonl` 的恶手标注）：
-   - [在线阅读器首页（内置代表局一键直达与中英切换）](https://xiaohuaxi.github.io/agi-chess/)
+   - **[在线阅读器首页（内置代表局与中英切换）](https://xiaohuaxi.github.io/agi-chess/)** · **[无引擎对阵总览榜（`series.html`）](https://xiaohuaxi.github.io/agi-chess/series.html)** · **[全部 192 盘可筛选目录（`catalog.html`）](https://xiaohuaxi.github.io/agi-chess/catalog.html)**
    - [国际象棋 · Gemini 4 Neon `xhigh` vs Carbon `high`（第 1 局，`36.Qd8#`，Neon 10.7 ACPL 零大失误）](https://xiaohuaxi.github.io/agi-chess/?files=runs/neon-xhigh-vs-carbon-high-20261119)
    - [国际象棋 · GPT-6.2 Astra `max` vs Gemini 4 Neon `xhigh`（第 4 局，`59.Qhd5#`，Astra 11.7 ACPL 零大失误）](https://xiaohuaxi.github.io/agi-chess/?files=runs/neon-xhigh-vs-astra-max-20261119-4)
    - [国际象棋 · Gemini 4 Carbon `high` vs Opus 5.5 `high`（首局，`69.Qg7#`，Carbon 7.0 ACPL 零大失误）](https://xiaohuaxi.github.io/agi-chess/?files=runs/carbon-vs-agy-opus-high-20261114)
@@ -103,7 +103,7 @@
 
 **核心定量结论摘要**（详见[研究索引](docs/research.md)与[实验历史](docs/history.md)）：
 
-- **棋力锚定区间（Opus Max 对引擎 67 盘标定）：** 国际象棋（30 盘）按 200 半回合上限引擎评分裁决（领先 ≥300 厘兵判胜）拟合为比 Maia-1900 高 **+189**（95% 区间 66–313），折合 **Lichess 超快棋约 1800 / 快棋约 1920**（按原始到上限判和口径为 +281，折合超快棋约 1910 / 快棋约 2020）；中国象棋（37 盘）比 Fairy-Stockfish `nodes=100` 高 **+121 Elo**（95% 区间 +1..+236），接近或略高于 `nodes=300`（+82）、明显低于 `nodes=1000`（+385）。
+- **棋力锚定区间（Opus Max 对引擎 67 盘标定）：** 国际象棋（30 盘）按 200 半回合上限引擎评分裁决（领先 ≥300 厘兵判胜）拟合为比 Maia-1900 高 **+189**（95% 区间 66–313），折合 **Lichess 超快棋约 1800 / 快棋约 1920**（按原始到上限判和口径为 +281，折合超快棋约 1910 / 快棋约 2020）；中国象棋（37 盘）比 Fairy-Stockfish `nodes=100` 高 **+121 Elo**（95% 区间 +1..+236），接近或略高于 `nodes=300`（+82）、明显低于 `nodes=1000`（+298）。
 - **合法着法与吃子规则并非主瓶颈：** 在真实棋手协议下，模型极少走非法着法；针对整盘漏吃/送子局面的复盘诊断（14 个失误点）显示，模型在单问“列出全部合法吃子”时 **26/26 全对**，但在正常选着时 13/14 次连可见理由都未提该吃子——失误主因是搜索中的注意力漏扫与多步算力不足，而非不认识棋盘或规则。
 - **局面表示与单步盲区（尤以中国象棋显著）：** 输入并非越多越好——中国象棋仅给**子力清单（`pieces`）**时大失误率最低（21%，而给全量 `FEN + 字符棋盘 + 清单` 时达 34%，且字符棋盘易把黑方 `車` 误认成红车）；模型在中国象棋中反复出现“炮隔己方炮打车”等单步自送吃及连续多步双方对挂着的大子视而不见的盲区。
 - **思考深度主导棋力，跨轮思考延续有利有弊：** 调高 `effort`（`medium → high → xhigh → max`）是降低大失误率最显著的单一手段（如九月 Opus vs GPT-6 Astra 巅峰对决升至双方 `max` 后，Opus 国象 3:1、中象 4:0）；连续会话（`session`）确实复用了前序思考并节省每步思考 token，但保留前序思考有时会固化早期盲区（Opus 开 `drop_thinking` 丢弃前序思考后漏吃减少，但思考 token 与耗时翻 2–3 倍）。

diff --git a/docs/setup.en.md b/docs/setup.en.md
@@ -10,13 +10,13 @@ All commands in this guide run from the repository root. For experimental conclu
 
 | Task | Quick Command | What You Need | Calls Models? |
 | --- | --- | --- | --- |
-| Browse official games, samples, or your own PGNs | **Live online**: open [`https://xiaohuaxi.github.io/agi-chess/?lang=en`](https://xiaohuaxi.github.io/agi-chess/?lang=en); **local offline**: `node viewer/serve.mjs` (open `http://127.0.0.1:8765/viewer/?lang=en`) | Web browser only for online; local static HTTP server for offline (no build step or `npm` install needed) | No |
+| Browse official games, samples, or your own PGNs | **Live online**: [Featured Viewer](https://xiaohuaxi.github.io/agi-chess/?lang=en) · [Series Board](https://xiaohuaxi.github.io/agi-chess/series.html?lang=en) · [All 192 Games Catalog](https://xiaohuaxi.github.io/agi-chess/catalog.html?lang=en); **local offline**: `node viewer/serve.mjs` (open `http://127.0.0.1:8765/viewer/?lang=en`) | Web browser only for online; local static HTTP server for offline (no build step or `npm` install needed) | No |
 | Recompute published rating numbers | `python3 analysis/rating/rate.py report --boot 10` (~1.5s quick check; omit `--boot 10` for full 1,000 resamples in ~1.5m) | Python 3 standard library; CSV & JSON files in `analysis/rating/` | No |
 | Recompute 9 position-quiz summary tables | `python3 -m agi_chess.quiz report --batch batch2` (supports `batch1`, `batch2`, `batch3`, `4p`, `4p2`, `5-ds`, `5-sol`, `6r`, `6r-sol`) | Python 3 standard library; `runs/quiz-*/judged.jsonl` | No |
 | Verify position banks & run Python tests | `python3 data/batch1/select_positions.py check && python3 data/batch2/select_positions.py check && python3 -m unittest discover -s tests -t . -v` | Python 3, `chess`, `pyffish`; 21 live-engine tests also require local `stockfish` and `fairy-stockfish` (auto-skipped if absent) | No |
 | Run a zero-cost first match locally | `python3 -m agi_chess play --game chess --tag demo-random --white random --black random --max-plies 20 --seed 42` | Python 3, `chess`, `pyffish` (writes `runs/demo-random/game.pgn` in 0.1s) | No |
 | Run post-game engine blunder analysis | `python3 -m agi_chess.analyze runs/demo-random` (add `--table` for multi-game summary; writes `analysis.jsonl` & `analysis-summary.json`) | Python rule libraries, local engine (`stockfish` for Chess, `fairy-stockfish` for Xiangqi), and a run directory containing `game.jsonl` | No |
-| Run Viewer JS tests | `node --test 'viewer/test/*.test.js'` | Node.js; 29 browser tests also require `playwright-core` + Chromium, and 3 round-trip tests require Python rule libraries (32 in total, auto-skipped if absent) | No |
+| Run Viewer JS tests | `node --test 'viewer/test/*.test.js'` | Node.js; 33 browser tests also require `playwright-core` + Chromium, and 3 round-trip tests require Python rule libraries (36 in total, auto-skipped if absent) | No |
 | Record PGNs to MP4 video | `npm --prefix viewer ci && node viewer/record.mjs runs/g7-c-opus-astra-1 -o /tmp/g7-c-1.mp4 --gap 1.5 --openhold 0.5` | Node.js, `playwright-core`, Chromium, FFmpeg; video verification also uses FFprobe | No |
 | Run full-game model matches | `python3 -m agi_chess play --game chess --tag c1 --white claude:opus --black random --effort medium --max-plies 6 --on-limit pause` | macOS / Linux (including WSL2; `llm_chat.py` relies on `fcntl` and POSIX process groups), Python rule libraries, built-in `llm-chat` (`.agents/skills/llm-chat/`), and either a local model CLI (`claude` / `codex` / `agy`) or an HTTP API key (`API_KEY_OPENROUTER` / `API_KEY_DEEPSEEK`); engine opponents also require engines | Yes |
 
@@ -42,6 +42,7 @@ python3 -m agi_chess.quiz report --batch batch2    # Supports batch1, batch2, ba
 If you only want to browse the 192 checked-in official games (or drag in your own `.pgn` files), open the hosted GitHub Pages viewer directly without cloning the repository or starting a local server:
 
 - Live Viewer Home (with featured games & Chinese/English toggle): <https://xiaohuaxi.github.io/agi-chess/?lang=en>
+- No-Engine Series Board (`series.html`): <https://xiaohuaxi.github.io/agi-chess/series.html?lang=en> · All 192 Games Catalog (`catalog.html`): <https://xiaohuaxi.github.io/agi-chess/catalog.html?lang=en>
 - Live Direct Game Examples (`files=runs/<tag>&lang=en`): <https://xiaohuaxi.github.io/agi-chess/?files=runs/neon-xhigh-vs-carbon-high-20261119&ply=40&lang=en> · <https://xiaohuaxi.github.io/agi-chess/?files=runs/carbon-vs-agy-opus-high-xq-20261114-3&ply=9&lang=en>
 
 For offline browsing, inspecting newly played local `runs/<tag>` directories, or verifying built-in test fixtures, start the local static HTTP server from the repository root:
@@ -201,4 +202,4 @@ Browsing PGNs in a web browser requires neither Node.js, Chromium automation, no
 node --test 'viewer/test/*.test.js'   # Quoted globbing requires Node 22+; on Node 18/20, omit single quotes: node --test viewer/test/*.test.js
 ```
 
-The JS test suite (90 tests) validates the PGN parser, UI logic, and all checked-in `game.pgn` files under `runs/`. It explicitly reports skipped tests: 58 pure-JS and PGN verification tests run with zero extra dependencies; when `playwright-core`/Chromium or the Python rule libraries are absent, the 29 browser playback tests and 3 Python round-trip tests (32 in total) are skipped accordingly; with `playwright-core`, Chromium, and the Python rule libraries installed, all 90 tests pass (0 fail / 0 skip).
+The JS test suite (100 tests) validates the PGN parser, UI logic, and all checked-in `game.pgn` files under `runs/`. It explicitly reports skipped tests: 64 pure-JS and PGN verification tests run with zero extra dependencies; when `playwright-core`/Chromium or the Python rule libraries are absent, the 33 browser playback tests and 3 Python round-trip tests (36 in total) are skipped accordingly; with `playwright-core`, Chromium, and the Python rule libraries installed, all 100 tests pass (0 fail / 0 skip).

diff --git a/docs/setup.md b/docs/setup.md
@@ -10,13 +10,13 @@
 
 | 用途 | 直达命令 | 需要什么 | 是否调用模型 |
 | --- | --- | --- | --- |
-| 浏览正式对局、样例或自己的棋谱 | **免安装在线版**：打开 [`https://xiaohuaxi.github.io/agi-chess/`](https://xiaohuaxi.github.io/agi-chess/)；**本机离线版**：`node viewer/serve.mjs`（打开 `http://127.0.0.1:8765/viewer/`） | 在线版仅需浏览器；本机版另起静态服务，无需构建或 npm 安装 | 否 |
+| 浏览正式对局、样例或自己的棋谱 | **免安装在线版**：[精选阅读器](https://xiaohuaxi.github.io/agi-chess/) · [对阵总览榜](https://xiaohuaxi.github.io/agi-chess/series.html) · [全部 192 盘目录](https://xiaohuaxi.github.io/agi-chess/catalog.html)；**本机离线版**：`node viewer/serve.mjs`（打开 `http://127.0.0.1:8765/viewer/`） | 在线版仅需浏览器；本机版另起静态服务，无需构建或 npm 安装 | 否 |
 | 复算已入库的评级数字 | `python3 analysis/rating/rate.py report --boot 10`（快检 1.5s；去掉 `--boot 10` 跑完整 1,000 次约 1.5m） | Python 标准库；`analysis/rating/` 的 CSV、JSON | 否 |
 | 复算 9 批局面题判卷汇总表 | `python3 -m agi_chess.quiz report --batch batch2`（可换 `batch1`、`batch2`、`batch3`、`4p`、`4p2`、`5-ds`、`5-sol`、`6r`、`6r-sol`） | Python 标准库；`runs/quiz-*/judged.jsonl` | 否 |
 | 校验题库与跑 Python 测试 | `python3 data/batch1/select_positions.py check && python3 data/batch2/select_positions.py check && python3 -m unittest discover -s tests -t . -v` | Python、`chess`、`pyffish`；21 项真引擎测试另需本机 `stockfish` 与 `fairy-stockfish`（未装自动 skip） | 否 |
 | 零成本试跑首盘对局 | `python3 -m agi_chess play --game chess --tag demo-random --white random --black random --max-plies 20 --seed 42` | Python、`chess`、`pyffish`（0.1 秒生成 `runs/demo-random/game.pgn`） | 否 |
 | 事后引擎逐手复盘与恶手分析 | `python3 -m agi_chess.analyze runs/demo-random`（多盘汇总加 `--table`；输出 `analysis.jsonl` 与 `analysis-summary.json`） | Python 规则库、本机引擎（国象 `stockfish`，中象 `fairy-stockfish`）及含 `game.jsonl` 的对局目录 | 否 |
-| 跑阅读器 JS 测试 | `node --test 'viewer/test/*.test.js'` | Node.js；29 项浏览器测试另需 `playwright-core` 与 Chromium，3 项往返测试需 Python 规则库（共 32 项，未装自动 skip） | 否 |
+| 跑阅读器 JS 测试 | `node --test 'viewer/test/*.test.js'` | Node.js；33 项浏览器测试另需 `playwright-core` 与 Chromium，3 项往返测试需 Python 规则库（共 36 项，未装自动 skip） | 否 |
 | 把棋谱录成 MP4 | `npm --prefix viewer ci && node viewer/record.mjs runs/g7-c-opus-astra-1 -o /tmp/g7-c-1.mp4 --gap 1.5 --openhold 0.5` | Node.js、`playwright-core`、Chromium、FFmpeg；核对视频另用 FFprobe | 否 |
 | 开模型对弈 | `python3 -m agi_chess play --game chess --tag c1 --white claude:opus --black random --effort medium --max-plies 6 --on-limit pause` | macOS / Linux（含 WSL2；`llm_chat.py` 依赖 `fcntl` 与 POSIX 进程组）、Python 规则库、仓内内置 `llm-chat`（`.agents/skills/llm-chat/`）、本地模型 CLI（`claude`/`codex`/`agy`）或 HTTP API Key（`API_KEY_OPENROUTER` / `API_KEY_DEEPSEEK`）；引擎对手另需引擎 | 是 |
 
@@ -42,6 +42,7 @@ python3 -m agi_chess.quiz report --batch batch2    # 可换 batch1、batch2、ba
 若只想直接查看已入库的 192 盘正式对局（或拖入本地 `.pgn` 棋谱），无需克隆仓库或启动本机服务，直接打开 GitHub Pages 在线版即可：
 
 - 在线阅读器首页（含代表局一键直达与中英切换）：<https://xiaohuaxi.github.io/agi-chess/>
+- 无引擎对阵总览榜（`series.html`）：<https://xiaohuaxi.github.io/agi-chess/series.html> · 全部 192 盘可筛选目录（`catalog.html`）：<https://xiaohuaxi.github.io/agi-chess/catalog.html>
 - 在线直达单盘示例（`files=runs/<tag>`）：<https://xiaohuaxi.github.io/agi-chess/?files=runs/neon-xhigh-vs-carbon-high-20261119&ply=40> · <https://xiaohuaxi.github.io/agi-chess/?files=runs/carbon-vs-agy-opus-high-xq-20261114-3&ply=9>
 
 若需在离线环境浏览、查看本机新跑出的 `runs/<tag>` 对局或验证仓内测试样例，在仓库根目录启动本机静态服务：
@@ -202,4 +203,4 @@ python -m agi_chess play --game chess --tag ds-smoke --white deepseek:v4-pro --b
 node --test 'viewer/test/*.test.js'   # 引号通配需 Node 22+；Node 18/20 请去掉单引号运行 node --test viewer/test/*.test.js
 ```
 
-JS 测试（共 90 项）会校验阅读器解析及已入库 `runs/` 下全部正式对局 `game.pgn`，并说明跳过的项目：58 项纯 JS 与棋谱校验无需额外依赖；未安装 `playwright-core`/Chromium 或未安装 Python 规则库时，29 项浏览器测试与 3 项 Python 往返测试（共 32 项）会按缺失项自动跳过；安装依赖并具备 Chromium 与 Python 规则库后，90 项测试全部通过（0 fail / 0 skip）。跳过不表示该部分已验证。
+JS 测试（共 100 项）会校验阅读器解析及已入库 `runs/` 下全部正式对局 `game.pgn`，并说明跳过的项目：64 项纯 JS 与棋谱校验无需额外依赖；未安装 `playwright-core`/Chromium 或未安装 Python 规则库时，33 项浏览器测试与 3 项 Python 往返测试（共 36 项）会按缺失项自动跳过；安装依赖并具备 Chromium 与 Python 规则库后，100 项测试全部通过（0 fail / 0 skip）。跳过不表示该部分已验证。

diff --git a/STATUS.md b/STATUS.md
@@ -5,7 +5,7 @@
 ## 已完成与可用
 
 - 两种棋的单盘对弈、暂停续跑、批量对弈、局面题、事后引擎分析与离线评级复算均已实现；入口见 [安装与运行](docs/setup.md)。整盘调用层已收归仓内，支持 Claude / Codex / DeepSeek / agy 与显式 OpenRouter 路由；新 Gemini 对局统一 `agy:`，旧记录可续跑。开盘前检查双方 CLI / Key，缺 CLI 给出需替换型号占位的 API 命令模板；dry-run 离线，resume 固定原后端。 对弈入口指引已澄清：通常优先仓库 CLI，通道验证或故障排查可按需直接调用底层；暂不新增对弈 skill。 独立 clone 冷读上手验收已完成：自行建立依赖环境，零成本入口及订阅、OpenRouter 短对弈的暂停/续跑/导出均可用；测试数据仅留临时副本，不入库。`quiz report` 会回写 `report.txt`，入门文档未明确提醒此副作用（其中“只读”原句指评级脚本，并非 quiz report）；本机缺 `ensurepip` 可用已有 pip 向独立环境安装依赖。
-- 中英双语棋谱阅读器支持理由、用量、失误标记、连播、走子动画及有声视频，并已支持 [GitHub Pages 在线免安装浏览](https://xiaohuaxi.github.io/agi-chess/)（含手机端纵向堆叠读谱、手动翻步 `ply` 深链接分享与 GitHub Actions Playwright CI/CD 自动部署）；见 [阅读器指南](docs/viewer-guide.md)。随仓有 95 个正式对局/局面题目录、192 份棋谱；原始 `game.jsonl`、`record.txt`、视频和新跑目录不入库，缺原始记录时不能重导或重新分析。
+- 中英双语棋谱阅读器支持理由、用量、逐着引擎评分与最佳着、失误标记、连播、走子动画及有声视频，[GitHub Pages 在线站点](https://xiaohuaxi.github.io/agi-chess/)已补齐三页同级架构——精选阅读器首页、[分棋种无引擎对阵总览榜（`series.html`）](https://xiaohuaxi.github.io/agi-chess/series.html)与[全部 192 盘可筛选目录（`catalog.html`）](https://xiaohuaxi.github.io/agi-chess/catalog.html)（含手机端紧贴棋盘翻步栏与 8 行着法滚动框、手动翻步 `ply` 深链接分享及 GitHub Actions Playwright CI/CD 自动部署）；见 [阅读器指南](docs/viewer-guide.md)。随仓有 95 个正式对局/局面题目录、192 份棋谱；原始 `game.jsonl`、`record.txt`、视频和新跑目录不入库，缺原始记录时不能重导或重新分析。
 - 第一轮研究、Opus Max 棋力定位、Argon High 及 Carbon High 对 agy Opus High 的报告均已完成。统计脚本和人类刻度数据在 `analysis/rating/`；自有内容许可与规则依赖边界已定，见 [依赖](docs/dependencies.md)和[许可说明](docs/license-review.md)。
 - 离线与通道验证快照（2026-11-15）：`--protocol real` 新对局默认切换为英文提示词 `--lang en`（`--lang zh` 逐字节保留历史中文提示，旧记录无 `lang` 自动按中文续跑），并将英文默认 `reason=plain` 定为 1–3 句客观第三人称局面短评、`reason=off` 收紧为无附加说明的单行 `Move:`；仓内 `llm-chat`（`agy_core.REFUSAL_MARKS`）与 `agi_chess/claude_cli.refusal_text` 同步补齐 `blocked by content safety filters` 首次即停熔断。全量 Python 单测 **373 项通过（0 skip）**、阅读器测试 **90 项**、两批题库校验全部通过，并在 `agy:claude-opus-5-5`（`high`）上完成 147 次真实调用验证（[报告](docs/results/english-prompts-filter-mitigation-20261115.md)）。此前 `agy 1.5.8 acp` 零工具收口、Python 3.13 干净归档副本与 Linux / WSL2 完整回归均已通过；安装建议沿用 Python 3.13（系统 `/usr/bin/python3` 3.9 亦可运行）。
 
@@ -24,9 +24,7 @@
 - [仓库](https://github.com/xiaohuaxi/agi-chess)已公开，上手检查和文档整理已完成；尚未选定下一轮研究，也可就此收工。以下仅是候选，不是已批准的实验计划。
 - 优先候选：修正看杀判分口径后离线重判已有数据；其次是 xhigh 对更强对手补测上限，或 Max 对更强对手补盘。国际象棋重测上限须重新决定范围；Max 重开先定额度上限，一次只开 2–4 盘，长评测按 5 小时窗口均匀使用、给日常工作留余量。
 - 中国象棋暂不补人类段位、不引入 Pikafish；不另做“列候选着法”或“程序告知吃子关系”实验。此前 Sol 不再测、GPT 棋手选择 Astra、DeepSeek 不再充值或做实验而只作辅助参考的决定保留，未完成的 DeepSeek 补测不列为续跑任务。
-- 阅读器与在线站点后续候选：
-  1. **在线阅读器二期目录**：构建期生成全部 192 盘棋谱静态索引，在空白首页增补按棋种、模型与分析状态筛选的对局目录；
-  2. **在线对阵总览/榜单页评估**：后续接入外部对阵汇总脚本（`chess_series_board.py`）前，先复审跨批次、跨提示语言与不同思考预算的统计合并边界（评估现行“不合并为单一 Elo 总榜”约束的合理范围与分表呈现方案）。
+- 对阵统计与跨模型统一等级分后续候选：跨批次、跨提示语言与不同思考预算的统计合并边界已复审定界（在线 `series.html` 按棋种与可比实验条件分列展示，不跨断裂对阵图硬合单一 Elo）；后续若需拟合跨模型统一等级分，须在统一英文协议与多样化固定开局下补齐强连通番棋与多模型引擎锚点（或届时再与外部 `chess_series_board.py` 脚本交叉比对）。
 
 ## 有效约定与研究限制
 

diff --git a/AGENTS.md b/AGENTS.md
@@ -42,7 +42,7 @@
 - Python 测试与题库校验（首次需 `pip install -r requirements.txt`）：
   - 单元测试：`python3 -m unittest discover -s tests -t . -v`（离线，不调模型；共 373 项，其中 21 项真引擎测试需本机 `stockfish` 与 `fairy-stockfish`，未装自动 skip）。
   - 题库离线校验：`python3 data/batch1/select_positions.py check` 与 `python3 data/batch2/select_positions.py check`。
-- 阅读器测试：`node --test 'viewer/test/*.test.js'`（引号通配需 Node 22+；Node 18/20 去掉单引号）。`runs/` 下已入库 95 个正式对局/局面题目录（含 192 盘 `game.pgn`），58 项纯 JS 与棋谱回归直接可跑；29 项浏览器播放测试需执行 `npm --prefix viewer ci` 安装开发依赖并具备 Chromium，3 项往返测试需 Python 规则库（共 32 项，未装自动跳过）。
+- 阅读器测试：`node --test 'viewer/test/*.test.js'`（引号通配需 Node 22+；Node 18/20 去掉单引号）。`runs/` 下已入库 95 个正式对局/局面题目录（含 192 盘 `game.pgn`），64 项纯 JS 与棋谱回归直接可跑；33 项浏览器播放测试需执行 `npm --prefix viewer ci` 安装开发依赖并具备 Chromium，3 项往返测试需 Python 规则库（共 36 项，未装自动跳过）。
 - 真模型冒烟：会消耗模型额度，只用 `medium`，半回合数压到个位数；免模型本地冒烟可用 `--white random --black random` 或 `engine:fsf:nodes=100`。
 
 ## 硬约束
